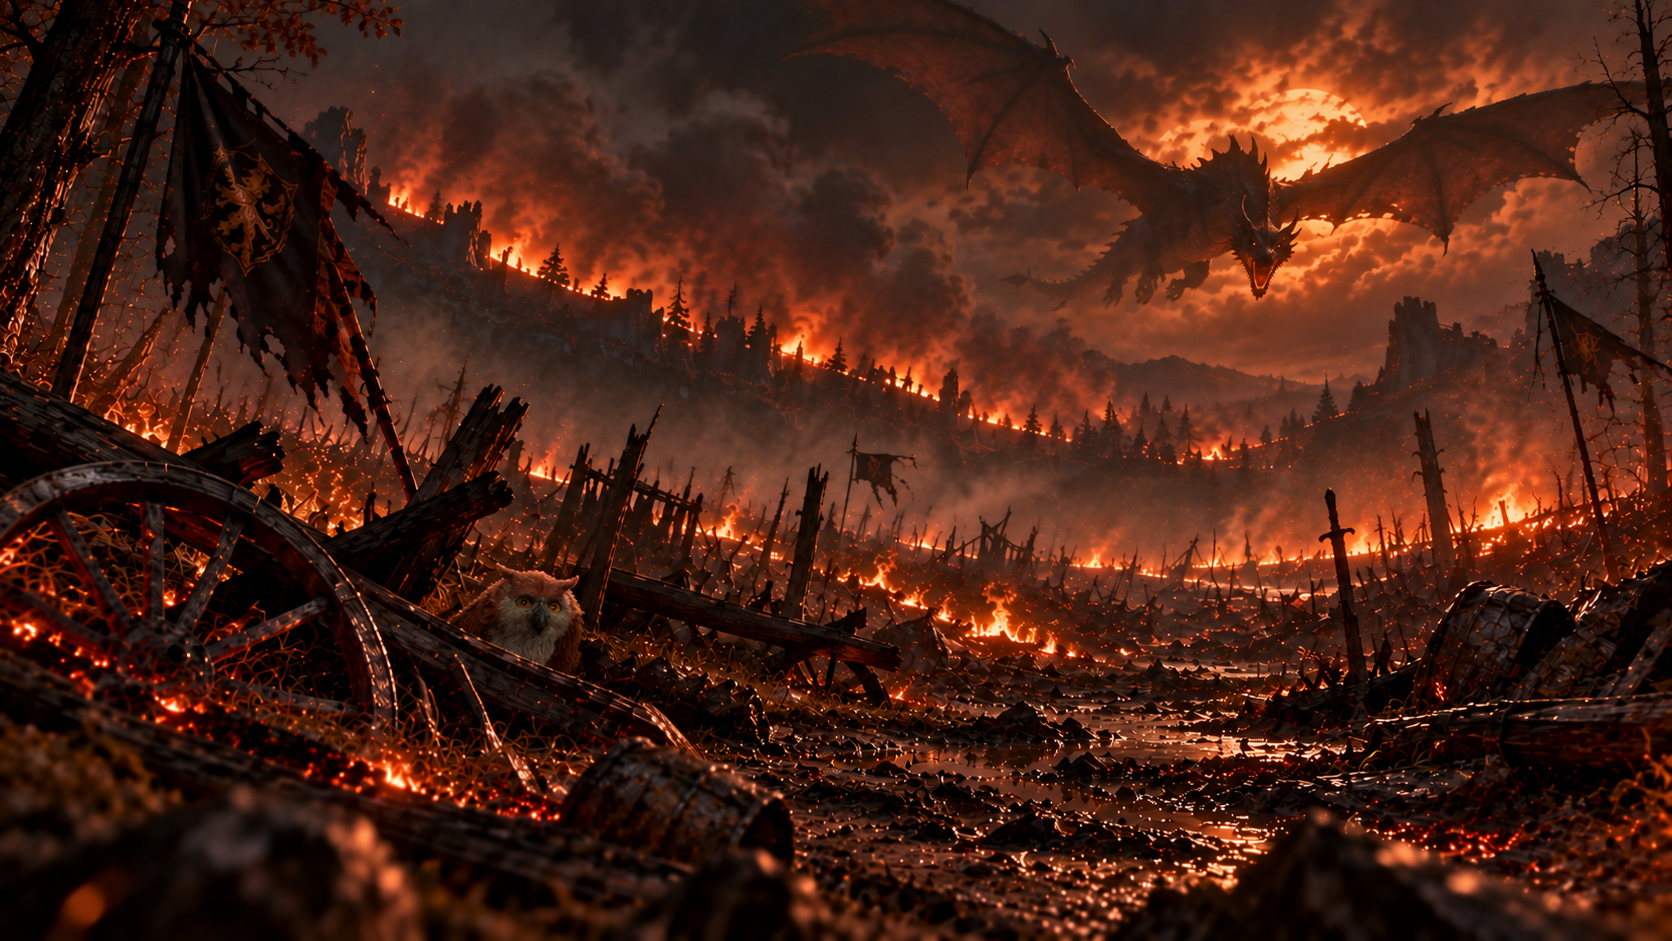
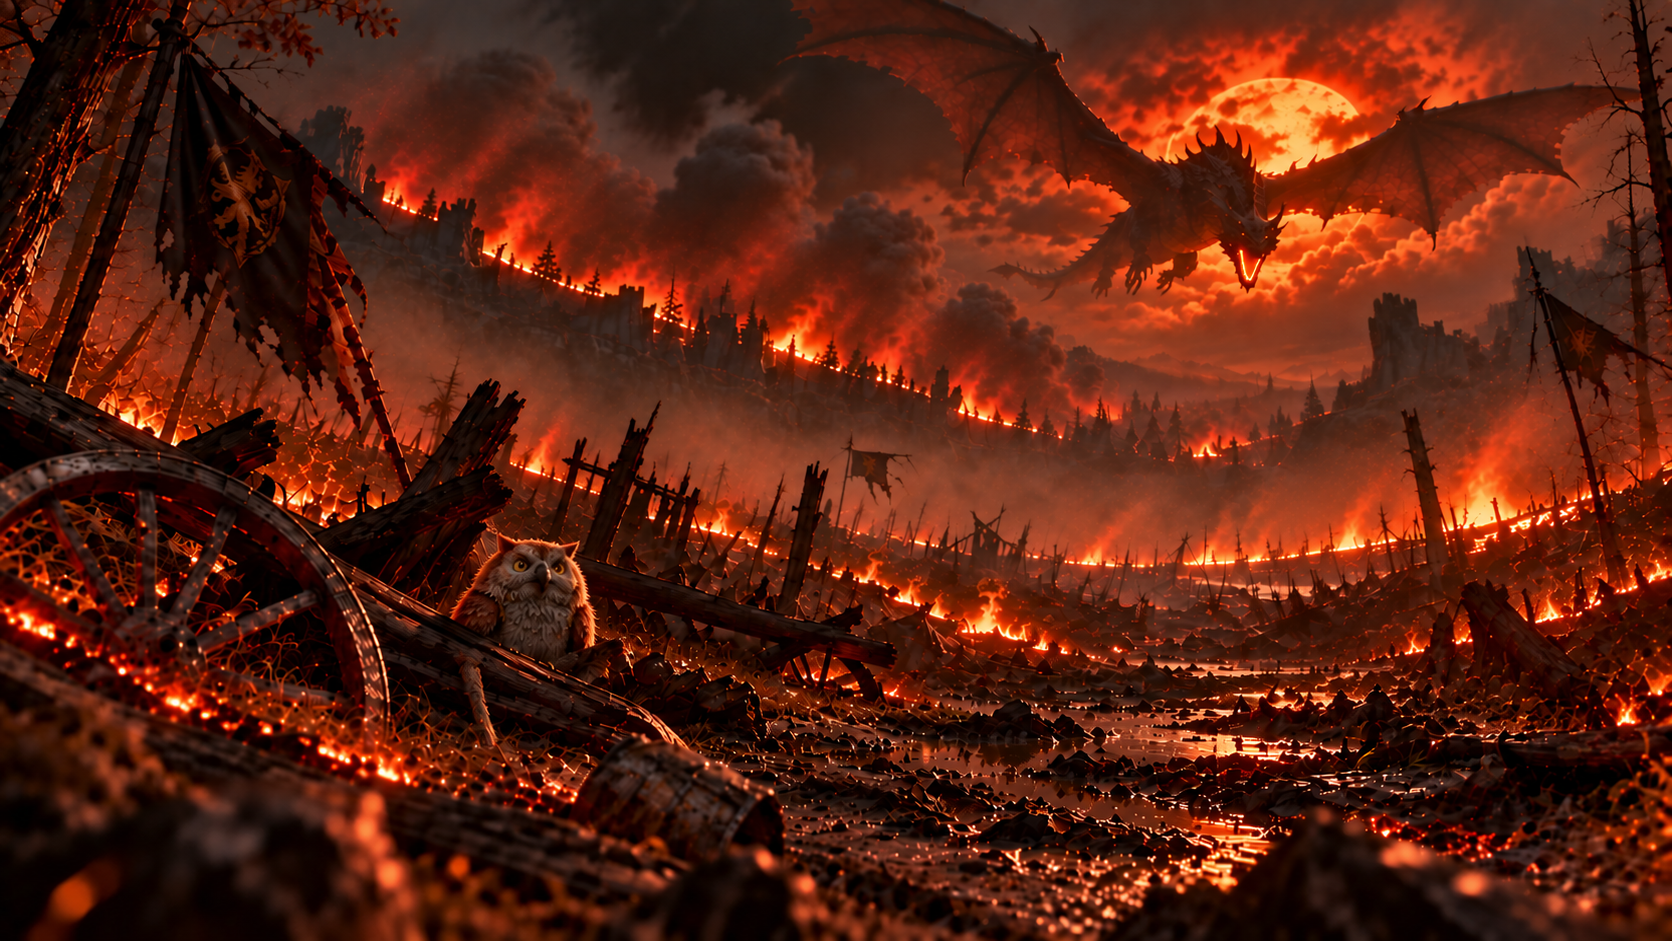
feat(final): fix scene flow

diff --git a/src/data/story/final.ts b/src/data/story/final.ts
@@ -57,7 +57,7 @@ export const finalChapter: ChapterData = {
       background: images.forest,
       content: {
         type: "text",
-        text: "ЭТО ДРАКОН?!!",
+        text: "ЭТО ЧТО ДРАКОН?!!",
       },
       nextScene: "final-battlefield",
     },
@@ -132,7 +132,7 @@ export const finalChapter: ChapterData = {
 
     {
       id: "final-battle",
-      background: images.owlbear,
+      background: images.owlbearFire,
       content: {
         type: "text",
         text: "Дракон обрушивает огонь на обломки.\n\nМежду вами встаёт стена дыма.",
@@ -142,7 +142,7 @@ export const finalChapter: ChapterData = {
 
     {
       id: "final-battle-2",
-      background: images.forest,
+      background: images.owlbearFire,
       content: {
         type: "text",
         text: "Секунду назад ты видел, где он. Теперь — нет.\n\nТебе нужен ориентир.",
@@ -152,7 +152,7 @@ export const finalChapter: ChapterData = {
 
     {
       id: "final-battle-3",
-      background: images.forest,
+      background: images.owlbearFire,
       content: {
         type: "text",
         text: "И ты вспоминаешь строку из книги:",
@@ -162,7 +162,7 @@ export const finalChapter: ChapterData = {
 
     {
       id: "final-battle-4",
-      background: images.forest,
+      background: images.owlbearFire,
       content: {
         type: "text",
         text: "«То, что когда-то существовало лишь в воображении, однажды может стать настоящим — и ожить в твоих руках.»",
@@ -170,102 +170,102 @@ export const finalChapter: ChapterData = {
       nextScene: "final-battle-5",
     },
 
+    // {
+    //   id: "final-battle-4",
+    //   background: images.owlbearFire,
+    //   content: {
+    //     type: "text",
+    //     text: "То, что однажды было лишь фантазией,\n\nможет стать настоящим — если однажды решиться создать его.",
+    //   },
+    //   nextScene: "final-battle-5",
+    // },
+
     {
       id: "final-battle-5",
-      background: images.forest,
+      background: images.owlbearFire,
       content: {
         type: "text",
-        text: "Всё, что нужно, у тебя уже есть.",
+        text: "И ты понимаешь.\n\nВсё необходимое у тебя уже есть.",
       },
       nextScene: "final-battle-6",
     },
 
     {
       id: "final-battle-6",
-      background: images.forest,
+      background: images.deviceAssembly,
       content: {
         type: "text",
-        text: "Коробка.\n\nТы достаёшь её и высыпаешь детали прямо на колени.",
+        text: "Ты открываешь коробку.\n\nЛатунные пластины. Шестерни. Винты.\n\nВсе эти детали должны сложиться в одно целое.",
       },
       nextScene: "final-battle-7",
     },
 
     {
       id: "final-battle-7",
-      background: images.forest,
+      background: images.deviceAssembly,
       content: {
         type: "text",
-        text: "Латунные пластины. Шестерни. Винты.",
+        text: "Ты собираешь устройство под рёв дракона. Среди дыма и огня.",
       },
       nextScene: "final-battle-8",
     },
 
     {
       id: "final-battle-8",
-      background: images.forest,
+      background: images.device,
       content: {
         type: "text",
-        text: "Ты собираешь его здесь же, на коленях, под грохот.",
+        text: "MI-01 лежит у тебя на ладони.\n\nНа мгновение — тишина.\n\nЗатем надкрылья раскрываются.\n\nОн оживает.",
       },
       nextScene: "final-battle-9",
     },
 
     {
       id: "final-battle-9",
-      background: images.forest,
+      background: images.deviceFliesAway,
       content: {
         type: "text",
-        text: "MI-01 стоит у тебя на ладони.\n\nНадкрылья раскрываются. Он оживает.",
+        text: "Ты осторожно подбрасываешь его в воздух.\n\nОн раскрывает крылья и исчезает в густом дыму.",
       },
       nextScene: "final-battle-10",
     },
 
     {
       id: "final-battle-10",
-      background: images.forest,
+      background: images.deviceFliesAway,
       content: {
         type: "text",
-        text: "Ты подбрасываешь его — и он улетает в дым.",
+        text: "Ты ждёшь.\n\nСекунда. Другая.\n\nТолько огонь, дым и рёв дракона.",
       },
       nextScene: "final-battle-11",
     },
 
     {
       id: "final-battle-11",
-      background: images.forest,
+      background: images.owlbearFound,
       content: {
         type: "text",
-        text: "Несколько секунд — ничего.",
+        text: "И вдруг — в глубине поля боя появляется маленький огонёк.",
       },
       nextScene: "final-battle-12",
     },
 
     {
       id: "final-battle-12",
-      background: images.forest,
+      background: images.owlbearFound,
       content: {
         type: "text",
-        text: "Потом далеко впереди, сквозь дым, загорается ровный огонёк.",
+        text: "MI-01 нашёл его.\n\nМедвесыч там.",
       },
       nextScene: "final-battle-13",
     },
 
     {
       id: "final-battle-13",
-      background: images.forest,
+      background: images.owlbearFound,
       content: {
         type: "text",
-        text: "Медвесыч там.",
-      },
-      nextScene: "final-battle-14",
-    },
-
-    {
-      id: "final-battle-14",
-      background: images.forest,
-      content: {
-        type: "text",
-        text: "Только помни: сначала нужно добраться до Медвесыча.\n\nА затем остановить дракона.",
+        text: "Теперь ты знаешь, где он.\n\nСначала нужно добраться до Медвесыча.\n\nПотом — остановить дракона.",
       },
       nextScene: "final-puzzle",
     },
@@ -294,7 +294,7 @@ export const finalChapter: ChapterData = {
 
     {
       id: "final-victory",
-      background: images.forest,
+      background: images.victoryOverDragon,
       content: {
         type: "text",
         text: "Дракон падает.\n\nНаступает тишина.",
@@ -304,7 +304,7 @@ export const finalChapter: ChapterData = {
 
     {
       id: "final-victory-2",
-      background: images.forest,
+      background: images.victoryOverDragon,
       content: {
         type: "text",
         text: "Пепел медленно оседает на землю.",
@@ -314,20 +314,20 @@ export const finalChapter: ChapterData = {
 
     {
       id: "final-victory-3",
-      background: images.forest,
+      background: images.victoryOverDragonOwlbear,
       content: {
         type: "text",
-        text: "Медвесыч рядом.\n\nОн не отходит ни на шаг с той секунды, как ты до него добрался.",
+        text: "Медвесыч рядом c тобой.\n\nОн не отходит ни на шаг с той секунды, как ты до него добрался.",
       },
       nextScene: "final-victory-4",
     },
 
     {
       id: "final-victory-4",
-      background: images.forest,
+      background: images.owlbearAndBeetle,
       content: {
         type: "text",
-        text: "MI-01 возвращается сам.\n\nСадится тебе на плечо и складывает надкрылья.",
+        text: "MI-01 возвращается сам.\n\nСадится рядом с медвесычом и складывает крылья.",
       },
       nextScene: "final-companion",
     },
@@ -336,12 +336,32 @@ export const finalChapter: ChapterData = {
     // SCENE 06 — COMPANION
     // ─────────────────────────────
 
+    // {
+    //   id: "final-companion",
+    //   background: images.forest,
+    //   content: {
+    //     type: "text",
+    //     text: "Ты протягиваешь руку.",
+    //   },
+    //   nextScene: "final-companion-2",
+    // },
+
+    // {
+    //   id: "final-companion-2",
+    //   background: images.forest,
+    //   content: {
+    //     type: "text",
+    //     text: "Медвесыч делает шаг. Ещё один.\n\nИ садится рядом.",
+    //   },
+    //   nextScene: "final-companion-3",
+    // },
+
     {
       id: "final-companion",
       background: images.forest,
       content: {
         type: "text",
-        text: "Ты протягиваешь руку.",
+        text: "Где-то вдали звучит та мелодия, что ты слышал у каменной стены.",
       },
       nextScene: "final-companion-2",
     },
@@ -351,65 +371,7 @@ export const finalChapter: ChapterData = {
       background: images.forest,
       content: {
         type: "text",
-        text: "Медвесыч делает шаг. Ещё один.\n\nИ садится рядом.",
-      },
-      nextScene: "final-companion-3",
-    },
-
-    {
-      id: "final-companion-3",
-      background: images.forest,
-      content: {
-        type: "text",
-        text: "Где-то вдали звучит та мелодия, что ты слышал у каменной стены.",
-      },
-      nextScene: "final-companion-4",
-    },
-
-    {
-      id: "final-companion-4",
-      background: images.forest,
-      content: {
-        type: "text",
-        text: "Медвесыч поднимает голову.\n\nОн узнаёт её раньше, чем ты.",
-      },
-      nextScene: "final-companion-acquired",
-    },
-
-    {
-      id: "final-companion-acquired",
-      background: images.forest,
-      content: {
-        type: "text",
-        text: "COMPANION ACQUIRED",
-      },
-      nextScene: "final-companion-card",
-    },
-
-    {
-      id: "final-companion-card",
-      background: images.forest,
-      content: {
-        type: "text",
-        text: `━━━━━━━━━━━━━━━━━━━━
-
-COMPANION
-
-МЕДВЕСЫЧ
-
-Origin:
-Baldur's Gate
-
-Material:
-Handmade
-
-Ability:
-Never leaves the party
-
-Status:
-PARTY MEMBER
-
-━━━━━━━━━━━━━━━━━━━━`,
+        text: "Медвесыч поднимает голову.\n\nОн узнаёт её раньше, чем ты, и начинает подпевать.",
       },
       nextScene: "final-reveal",
     },
@@ -453,7 +415,7 @@ PARTY MEMBER
       background: images.forest,
       content: {
         type: "text",
-        text: "Десятки чертежей, почти все перечёркнуты.\n\nСхему вязания — тем же карандашом.",
+        text: "Чертежи устройства и схему вязания.",
       },
       nextScene: "final-reveal-5",
     },
@@ -463,17 +425,7 @@ PARTY MEMBER
       background: images.forest,
       content: {
         type: "text",
-        text: "Ничего из этого не лежало там случайно.",
-      },
-      nextScene: "final-reveal-6",
-    },
-
-    {
-      id: "final-reveal-6",
-      background: images.forest,
-      content: {
-        type: "text",
-        text: "Каждая вещь ждала ровно там, куда ты дойдёшь.\n\nКто-то оставил их для тебя.",
+        text: "Ничего из этого не лежало там случайно.\n\nКто-то оставил их для тебя.",
       },
       nextScene: "final-thread",
     },
@@ -547,7 +499,7 @@ PARTY MEMBER
       background: images.forest,
       content: {
         type: "text",
-        text: "Клубок катится.\n\nМимо обломков. \n\nЗа деревья. Снова в лес",
+        text: "Клубок катится.\n\nМимо обломков.\n\nЗа деревья.",
       },
 
       actions: [
@@ -594,7 +546,7 @@ PARTY MEMBER
       background: images.forest,
       content: {
         type: "text",
-        text: "Книга. Жук. Медвесыч. \n\nВсё сделала одна пара рук — и ты их очень хорошо знаешь.",
+        text: "Книга. Жук. Медвесыч.\n\nВсё это сделала одна пара рук — и ты их очень хорошо знаешь.",
       },
     },
 

diff --git a/src/data/images/chapter3.ts b/src/data/images/chapter3.ts
@@ -3,4 +3,12 @@ export const images = {
   battleField: "/images/chapter3/battle-field-2.png",
   dragon: "/images/chapter3/dragon-2.png",
   owlbear: "/images/chapter3/owlbear-2.png",
+  owlbearFire: "/images/chapter3/owlbear-fire.png",
+  deviceAssembly: "/images/chapter3/device-assembly.png",
+  device: "/images/chapter3/device.png",
+  deviceFliesAway: "/images/chapter3/device-flies-away.png",
+  owlbearFound: "/images/chapter3/owlbear-found.png",
+  victoryOverDragon: "/images/chapter3/victory-over-dragon.png",
+  victoryOverDragonOwlbear: "/images/chapter3/victory-over-dragon-owlbear.png",
+  owlbearAndBeetle: "/images/chapter3/owlbear-and-beetle.png",
 };

diff --git a/src/store/game-store.ts b/src/store/game-store.ts
@@ -38,7 +38,7 @@ export const useGameStore = create<GameState>()(
     gameStartedAt: null,
     storyTimestamps: {},
 
-    currentSceneId: "chapter1-ending-3",
+    currentSceneId: "final-start",
 
     inventory: [],
 
